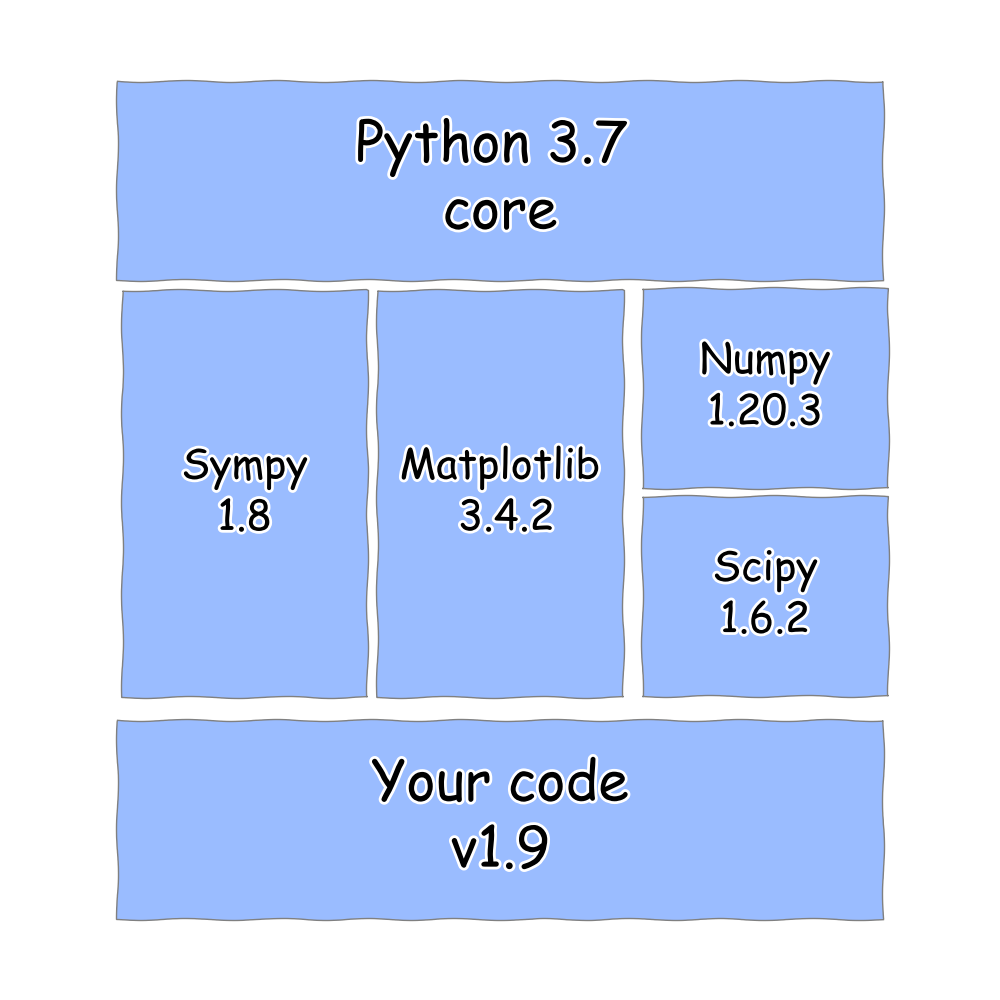
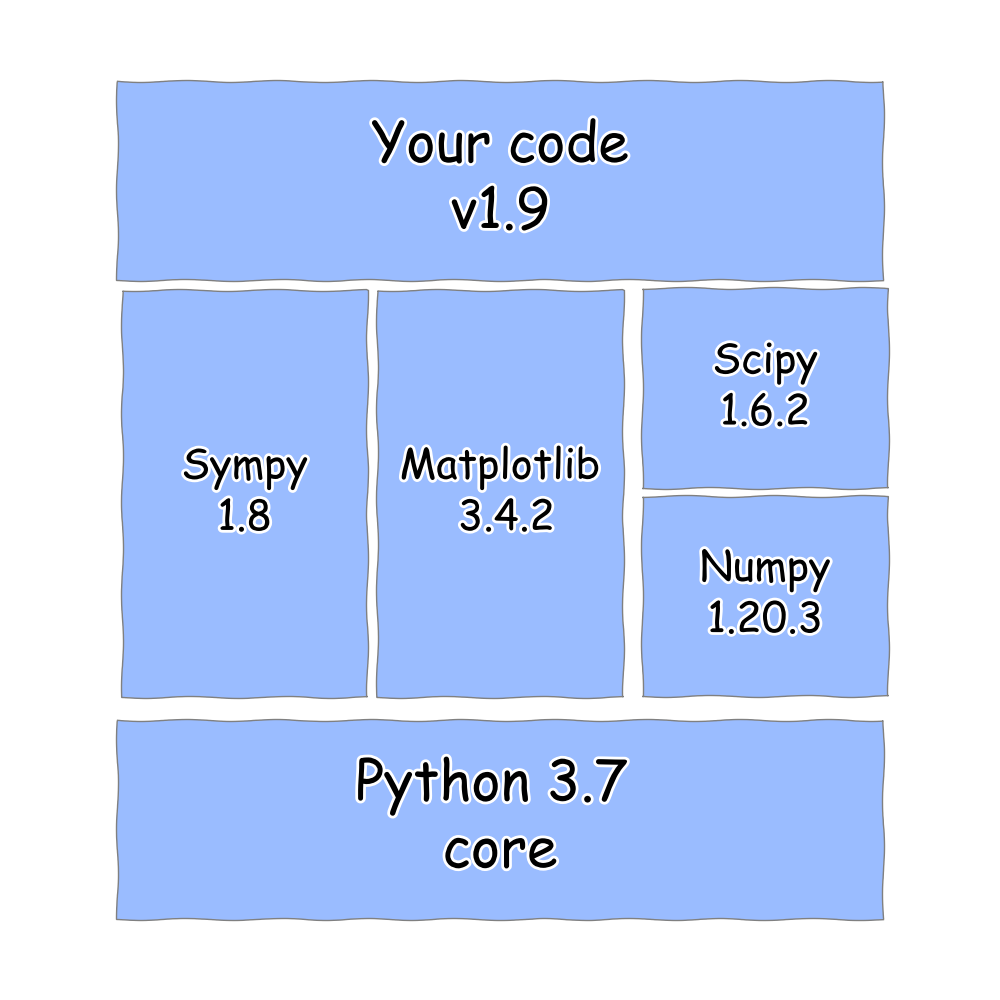
last change

diff --git a/data/python_stack.py b/data/python_stack.py
@@ -20,7 +20,7 @@ with plt.xkcd():
     dimx = dim[0] - 2*margin
     dimy = 2.5
     psx = 0
-    psy = dim[1]/2 - margin - 1
+    psy = dim[1]/2 - margin - 3*dimy - 1.5
     rect = Rectangle((psx - dimx / 2, psy - dimy / 2) , dimx , dimy, ec="grey", fc="#9ABCFF")
     ax.add_patch(rect)     
     ax.text(psx, psy, "Python 3.7 \ncore", ha="center", va="center", rotation=0, size=40)
@@ -28,7 +28,7 @@ with plt.xkcd():
     dimx = (dim[0] - 2*margin) / 3 - 0.1
     dimy = 2.5
     psx =  dimx + 2* 0.1
-    psy = dim[1]/2 - margin - dimy - 1.1
+    psy = dim[1]/2 - margin - 2*dimy - 1.2
     rect = Rectangle((psx - dimx / 2, psy - dimy / 2) , dimx , dimy, ec="grey", fc="#9ABCFF")
     ax.add_patch(rect)     
     ax.text(psx, psy, "Numpy\n1.20.3", ha="center", va="center", rotation=0, size=30)
@@ -52,7 +52,7 @@ with plt.xkcd():
     dimx = (dim[0] - 2*margin) / 3 - 0.1
     dimy = 2.5
     psx =  dimx + 2* 0.1
-    psy = dim[1]/2 - margin - 2*dimy - 1.2
+    psy = dim[1]/2 - margin - dimy - 1.1
     rect = Rectangle((psx - dimx / 2, psy - dimy / 2) , dimx , dimy, ec="grey", fc="#9ABCFF")
     ax.add_patch(rect)     
     ax.text(psx, psy, "Scipy\n1.6.2", ha="center", va="center", rotation=0, size=30)
@@ -60,10 +60,58 @@ with plt.xkcd():
     dimx = dim[0] - 2*margin
     dimy = 2.5
     psx = 0
-    psy = dim[1]/2 - margin - 3*dimy - 1.5
+    psy = dim[1]/2 - margin - 1
     rect = Rectangle((psx - dimx / 2, psy - dimy / 2) , dimx , dimy, ec="grey", fc="#9ABCFF")
     ax.add_patch(rect)     
     ax.text(psx, psy, "Your code\nv1.9", ha="center", va="center", rotation=0, size=40)
+    
+#     dimx = dim[0] - 2*margin
+#     dimy = 2.5
+#     psx = 0
+#     psy = dim[1]/2 - margin - 1
+#     rect = Rectangle((psx - dimx / 2, psy - dimy / 2) , dimx , dimy, ec="grey", fc="#9ABCFF")
+#     ax.add_patch(rect)     
+#     ax.text(psx, psy, "Python 3.7 \ncore", ha="center", va="center", rotation=0, size=40)
+    
+#     dimx = (dim[0] - 2*margin) / 3 - 0.1
+#     dimy = 2.5
+#     psx =  dimx + 2* 0.1
+#     psy = dim[1]/2 - margin - dimy - 1.1
+#     rect = Rectangle((psx - dimx / 2, psy - dimy / 2) , dimx , dimy, ec="grey", fc="#9ABCFF")
+#     ax.add_patch(rect)     
+#     ax.text(psx, psy, "Numpy\n1.20.3", ha="center", va="center", rotation=0, size=30)
+    
+#     dimx = (dim[0] - 2 * margin) / 3 - 0.1
+#     dimy = 2 * 2.5 + 0.1
+#     psx =  - dimx  - 0.1
+#     psy = dim[1]/2 - margin - dimy - 1.1 + 1.28
+#     rect = Rectangle((psx - dimx / 2, psy - dimy / 2) , dimx , dimy, ec="grey", fc="#9ABCFF")
+#     ax.add_patch(rect)     
+#     ax.text(psx, psy, "Sympy\n1.8", ha="center", va="center", rotation=0, size=30)
+    
+#     dimx = (dim[0] - 2*margin) / 3 - 0.1
+#     dimy = 2 * 2.5 + 0.1
+#     psx =  0 
+#     psy = dim[1]/2 - margin - dimy - 1.1 + 1.28
+#     rect = Rectangle((psx - dimx / 2, psy - dimy / 2) , dimx , dimy, ec="grey", fc="#9ABCFF")
+#     ax.add_patch(rect)     
+#     ax.text(psx, psy, "Matplotlib\n 3.4.2", ha="center", va="center", rotation=0, size=30)
+    
+#     dimx = (dim[0] - 2*margin) / 3 - 0.1
+#     dimy = 2.5
+#     psx =  dimx + 2* 0.1
+#     psy = dim[1]/2 - margin - 2*dimy - 1.2
+#     rect = Rectangle((psx - dimx / 2, psy - dimy / 2) , dimx , dimy, ec="grey", fc="#9ABCFF")
+#     ax.add_patch(rect)     
+#     ax.text(psx, psy, "Scipy\n1.6.2", ha="center", va="center", rotation=0, size=30)
+    
+#     dimx = dim[0] - 2*margin
+#     dimy = 2.5
+#     psx = 0
+#     psy = dim[1]/2 - margin - 3*dimy - 1.5
+#     rect = Rectangle((psx - dimx / 2, psy - dimy / 2) , dimx , dimy, ec="grey", fc="#9ABCFF")
+#     ax.add_patch(rect)     
+#     ax.text(psx, psy, "Your code\nv1.9", ha="center", va="center", rotation=0, size=40)
     
 #     ax.annotate('',
 #     xy=((dim[0] - 2*margin) / 3 - 0.1 + 2* 0.1, dim[1]/2 - margin - 2.5 - 1.1), arrowprops=dict(
